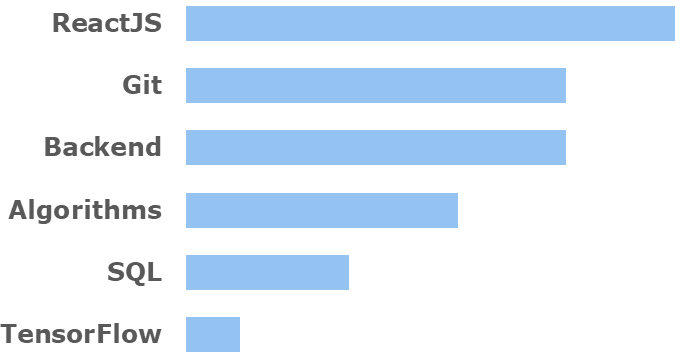
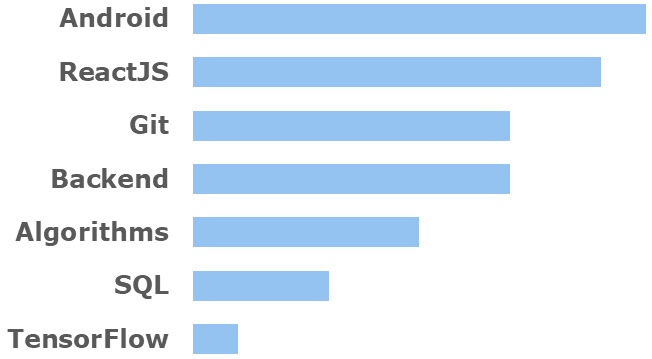
style

Changed region(s): [[0.0, 0.1532, 0.9202, 1.0], [0.0613, 0.0, 1.0, 0.1226]]

diff --git a/src/components/Resume.js b/src/components/Resume.js
@@ -5,8 +5,10 @@ import pepperPic from "./../img/pepper_transparent.png"
 import ericssonLogo from "./../img/ericsson_logo.svg"
 import educationLogo from "./../img/lund_logo.png"
 import bamseLogo from "./../img/bamse_logo.png"
-import moreLogo from "./../img/more_icon.png"
-import booklogLogo from "./../img/booklog.png"
+import c_logo from "./../img/c_logo.png"
+import android_logo from "./../img/android_logo.png"
+import fsek from "./../img/fsek.png"
+
 
 class Resume extends React.Component {
     constructor(props){
@@ -14,53 +16,53 @@ class Resume extends React.Component {
             this.state = {
                 boxSize: 100/3,
                 experiance:{
-                    education: {
-                        image:educationLogo,
-                        title: "Education",
-                        examples: ["Lund University","Kungsholmens gymnasium","Cambridge IGCSE", "Engelska Skolan"],
-                        examplesYear: ["2019 - Present" , "2015 - 2018", "2013 - 2015", " - 2015"],
+					skills: {
+                        image:c_logo,
+                        title: "Skills",
+                        examples: ["Java","Python","JavaScript", "C++", "Matlab", "Kotlin"],
+                        examplesYear: ["Android","ReactJS","Git", "Backend", "Algorithms","SQL", "TensorFlow"],
                         color: "rgb(34, 94, 191)",
                         subColor: "rgba(19, 54, 109, 0.7)"
                     },
+                    education: {
+                        image:educationLogo,
+                        title: "Education",
+                        examples: ["Engineering Physics","Fly a Rocket!","Computer Science", "Lund Startup Fellowship"],
+                        examplesYear: ["Aug 2019 - Present", "Nov 2020 - Present" , "Jan 2020 - Present", "Okt 2019 - Jun 2020"],
+                        color: "rgb(191, 183, 33)",
+                        subColor:"rgba(102, 98, 15, 0.7)"
+                    },
                     progWork: {
                         image:pepperPic,
-                        title: "Work - Programming",
-                        examples: ["Lunicore", "Digital Edge"],
-                        examplesYear: ["Nov 2019 - Present", "Nov 2018 - Jul 2019"],
+                        title: "Engineering Jobs",
+                        examples: ["Machine Learning Intern","Full Stack Developer", "Junior Software Developer", "Software Developer Intern"],
+                        examplesYear: ["Nov 2020 - Present", "Nov 2019 - Present", "Nov 2018 - Jul 2019", "Jan 2019 - May 2019"],
                         color: "rgb(191, 33, 33)",
                         subColor: "rgba(140, 8, 8, 0.7)"
                     },
-                    ericsson: {
-                        image:ericssonLogo,
-                        title: "Internship - Programming",
-                        examples: ["Ericsson"],
-                        examplesYear: ["Jan 2019 - May 2019"],
-                        color: "rgb(191, 33, 146)",
-                        subColor: "rgba(112, 19, 85, 0.7)"
-                    },
-                    mobileApps: {
-                        image:booklogLogo,
-                        title: "Android Apps",
-                        examples: ["Item Tracker", "BookLog","Falling Kitten", "Brännbollräknare"],
-                        examplesYear: ["2019", "2019", "2018", "2018"],
+					PersonalProjects: {
+                        image:android_logo,
+                        title: "Competitions and Projects",
+                        examples: ["Programming Competition", "Carefree Stockholm", "Pitch for Senior Executives", "First Android Projects", "More Android Apps","Science Competition"],
+                        examplesYear: ["Nov 2020","Jul 2020 - Present", "Apr 2019", "Apr 2019", "2018 - Present", "Feb 2018"],
                         color: "rgb(143, 33, 191)",
                         subColor: "rgba(65, 15, 86, 0.7)"
                     },
-                    serviceJobs: {
-                        image:bamseLogo,
-                        title: "Work - Service",
-                        examples: ["Engelska skolan", "Hemköp",  "TUI", "Bedinge GK", "Drottningholms GK", "Abbekås hamnkrog"],
-                        examplesYear: ["Oct - Nov 2018" , "Oct - Nov 2018", "summer 2018", "summer 2017",  "2015 - 2017", "summer 2015 & 2016"],
+					involvement: {
+                        image:fsek,
+                        title: "Volunteer and Involvement",
+                        examples: ["Engineers Without Borders", "Mentor", "Arkad / Farad"],
+                        examplesYear: ["Jul 2020 - Present", "Sep 2020", "Okt 2019 - Feb 2020"],
                         color: "rgb(33, 191, 117)",
                         subColor: "rgba(13, 86, 52, 0.7)"
                     },
-                    other: {
-                        image:moreLogo,
-                        title: "Other",
-                        examples: ["Engineers Without Borders","Kung-Fu","Liberal Youth party", "Alexa development","Brommapojkarna", "Unga forskare" ,"Erasmus +","Driver's license"],
-                        examplesYear: ["2020 - Present","summer 2019", "2018 - 2019", "2019", "2004 - 2019", "2018", "2017", "2017"],
-                        color: "rgb(191, 183, 33)",
-                        subColor: "rgba(102, 98, 15, 0.7)"
+                    serviceJobs: {
+                        image:bamseLogo,
+                        title: "Service Jobs",
+                        examples: ["Substitute teacher", "Sales Assistant ",  "Entertainer", "Waiter", "Golf coach", "Dishwasher"],
+                        examplesYear: ["Oct - Nov 2018" , "Oct - Nov 2018", "Summer 2018", "Summer 2017",  "2015 - 2017", "Summer 2015 & 2016"],
+                        color: "rgb(191, 33, 146)",
+                        subColor: "rgba(112, 19, 85, 0.7)"
                     },
                 }
             }
@@ -93,28 +95,28 @@ class Resume extends React.Component {
         var boxStyle ={
             height: this.state.boxSize+"vw",
             width: this.state.boxSize+"%",
-            fontSize: this.state.boxSize/30+"vw",
+            fontSize: this.state.boxSize/32+"vw",
             lineHeight: this.state.boxSize/30+"vw",
         }
         return (
             <div >
+				<div className="boxContainer" onClick={() => this.props.scrollfromParent("ericsson")} style={boxStyle}>
+                    <BoxResume info={this.state.experiance.skills}/>
+                </div>
                 <div className="boxContainer" onClick={() => this.props.scrollfromParent("education")} style={boxStyle}>
                     <BoxResume info={this.state.experiance.education}/>
                 </div>
                 <div className="boxContainer" onClick={() => this.props.scrollfromParent("progWork")} style={boxStyle}>
                     <BoxResume info={this.state.experiance.progWork}/>
                 </div>
-                <div className="boxContainer" onClick={() => this.props.scrollfromParent("ericsson")} style={boxStyle}>
-                    <BoxResume info={this.state.experiance.ericsson}/>
-                </div>
-                <div className="boxContainer" onClick={() => this.props.scrollfromParent("apps")}style={boxStyle}>
-                    <BoxResume info={this.state.experiance.mobileApps}/>
-                </div>
+				<div className="boxContainer" onClick={() => this.props.scrollfromParent("apps")}style={boxStyle}>
+					<BoxResume info={this.state.experiance.PersonalProjects}/>
+				</div>
+				<div className="boxContainer" onClick={() => this.props.scrollfromParent("apps")}style={boxStyle}>
+					<BoxResume info={this.state.experiance.involvement}/>
+				</div>
                 <div className="boxContainer" onClick={() => this.props.scrollfromParent("service")} style={boxStyle}>
                     <BoxResume info={this.state.experiance.serviceJobs}/>
-                </div>
-                <div className="boxContainer" onClick={() => this.props.scrollfromParent("other")} style={boxStyle}>
-                    <BoxResume info={this.state.experiance.other}/>
                 </div>
             </div>
         );

diff --git a/src/components/ServiceSection.js b/src/components/ServiceSection.js
@@ -25,6 +25,7 @@ class ServiceSection extends React.Component {
             this.state = {
                 tui:{
                     year:"summer 2018",
+					title:"Entertainer",
                     description:"I spent the summer of 2018 in Greece working at a TUI hotel as an Entertainer. Me and my colleagues performed on stage and hosted family games. I had the time of my life and made some great friends!",
                     image: {
                       front: tui_logo,
@@ -33,6 +34,7 @@ class ServiceSection extends React.Component {
                 },
                 iesb:{
                     year:"Oct - Nov 2018",
+					title:"Substitute teacher",
                     description:"3 years after graduating from IESB I came back but this time in the role of a substitute teacher. My respect for teachers grew as I realised how challenging it is to inspire at the same time as to act with authority.",
                     image: {
                       front: iesb_logo,
@@ -41,6 +43,7 @@ class ServiceSection extends React.Component {
                 },
                 hemkop:{
                     year:"Oct - Nov 2018",
+					title:"Sales Assistant",
                     description:"At Hemköp I realised that the shelfs in a supermarket apparently don't get filled by themselves, but by hard work and time optimization.",
                     image: {
                       front: hemkop_logo,
@@ -49,6 +52,7 @@ class ServiceSection extends React.Component {
                 },
                 drottningholm:{
                     year:"2015 - 2017",
+					title:"Golf coach",
                     description:"Leadership, planning and organization were essential skills in my work as a golf instructor, although pronouncing all the names during attendance was by far the hardest part.",
                     image: {
                       front: drottningholm_logo,
@@ -57,6 +61,7 @@ class ServiceSection extends React.Component {
                 },
                 bedinge:{
                     year:"summer 2017",
+					title:"Waiter",
                     description:"Working in a smaller restaurant sets completely different requirements, and you can no longer specialize in one thing. I had become an amazing dishwasher at Abbekås, but now I had to learn new skills.",
                     image: {
                       front: bedinge_logo,
@@ -65,6 +70,7 @@ class ServiceSection extends React.Component {
                 },
                 abbekas:{
                     year:"summer 2015 & 2015",
+					title:"Dishwasher",
                     description:"My first ever job was a harsh but fun welcoming to working life. Washing dishes at a restaurant is an extremely stressful task. When the piles stack up, there is no time to waste.",
                     image: {
                       front: abbekas_logo,
@@ -125,31 +131,25 @@ class ServiceSection extends React.Component {
             <div className="serviceBody">
                 <h1>Work - Service</h1>
                 <h3>Skills must be combined with hard work to achieve results. My former employers have been impressed by my work ethic and flexible mindset, I will do whatever the situation requires.</h3>
-                <div className="quote">
-                    <a href={abbekas_work_certificate} title="Download work certificate" download="Lukas Petersson - Abbekås work certificate">"I can really recommend this young man, even if I would rather not, as I hope to have him many years to come" -Lotta Holm, Abbekås hamnkrog</a>
-                </div>
-                <div className="quote">
-                    <a href={drottningholm_work_certificate} title="Download work certificate" download="Lukas Petersson - Drottningholm work certificate">"I give him the highest possible grade" -Fredrik Lundgren, Drottningholms GK</a>
-                </div>
                 <img alt="" className="arrowsService" id="firstArrowService" src={arrow_back} onClick={() => this.scrollSide(-1)} style = {this.state.arrowStyle.left}/>
                     <div className="serviceContainer" ref={this.blocksContainerRef} >
                     <div className="service">
-                        <SmallBlock info={this.state.iesb} height={"400px"}/>
+                        <SmallBlock info={this.state.iesb} height={"430px"}/>
                     </div>
                     <div className="service">
-                        <SmallBlock info={this.state.hemkop} height={"400px"}/>
+                        <SmallBlock info={this.state.hemkop} height={"430px"}/>
                     </div>
                     <div className="service">
-                        <SmallBlock info={this.state.tui} height={"400px"}/>
+                        <SmallBlock info={this.state.tui} height={"430px"}/>
                     </div>
                     <div className="service">
-                        <SmallBlock info={this.state.bedinge} height={"400px"}/>
+                        <SmallBlock info={this.state.bedinge} height={"430px"}/>
                     </div>
                     <div className="service">
-                        <SmallBlock info={this.state.drottningholm} height={"400px"}/>
+                        <SmallBlock info={this.state.drottningholm} height={"430px"}/>
                     </div>
                     <div className="service">
-                        <SmallBlock info={this.state.abbekas} height={"400px"}/>
+                        <SmallBlock info={this.state.abbekas} height={"430px"}/>
                     </div>
                 </div>
                 <img alt="" className="arrowsService" id="secondArrowService" src={arrow_forward} onClick={() => this.scrollSide(1)} style = {this.state.arrowStyle.right}/>

diff --git a/src/components/SmallBlock.js b/src/components/SmallBlock.js
@@ -27,22 +27,43 @@ class SmallBlock extends React.Component {
 				</div>
 			);
         }else{
-            return (
-                <div className="flip-card" style={{height:this.props.height}}>
-                  <div className="flip-card-inner">
-                    <div className="flip-card-front">
-                      <div className="SmallBlock" style={{height:this.props.height, boxShadow: "0 4px 8px 0 rgba(0,0,0,0.3)"}}>
-                          <img alt="" src={this.props.info.image.front}/>
-                           <p>{this.props.info.year}</p>
-                          <p>{this.props.info.description}</p>
-                      </div>
-                    </div>
-                    <div className="flip-card-back">
-                      <img alt="" src={this.props.info.image.back} style={{height:this.props.height}}/>
-                    </div>
-                  </div>
-                </div>
-            );
+			if(this.props.info.title){
+				return (
+	                <div className="flip-card" style={{height:this.props.height}}>
+	                  <div className="flip-card-inner">
+	                    <div className="flip-card-front">
+	                      <div className="SmallBlock" style={{height:this.props.height, boxShadow: "0 4px 8px 0 rgba(0,0,0,0.3)"}}>
+	                          <img alt="" src={this.props.info.image.front}/>
+							   <p>{this.props.info.title}</p>
+	                           <p>{this.props.info.year}</p>
+	                          <p>{this.props.info.description}</p>
+	                      </div>
+	                    </div>
+	                    <div className="flip-card-back">
+	                      <img alt="" src={this.props.info.image.back} style={{height:this.props.height}}/>
+	                    </div>
+	                  </div>
+	                </div>
+	            );
+			}else{
+				return (
+	                <div className="flip-card" style={{height:this.props.height}}>
+	                  <div className="flip-card-inner">
+	                    <div className="flip-card-front">
+	                      <div className="SmallBlock" style={{height:this.props.height, boxShadow: "0 4px 8px 0 rgba(0,0,0,0.3)"}}>
+	                          <img alt="" src={this.props.info.image.front}/>
+	                           <p>{this.props.info.year}</p>
+	                          <p>{this.props.info.description}</p>
+	                      </div>
+	                    </div>
+	                    <div className="flip-card-back">
+	                      <img alt="" src={this.props.info.image.back} style={{height:this.props.height}}/>
+	                    </div>
+	                  </div>
+	                </div>
+	            );
+			}
+
         }
     }
 }

diff --git a/src/components/WelcomeSection.js b/src/components/WelcomeSection.js
@@ -48,7 +48,7 @@ class WelcomeSection extends React.Component {
             </div>
             <div className="infoContainerWelcome" ref={this.refMeText}>
               <h1>Hello!</h1>
-              <h3>I’m Lukas, a self-taught software developer currently studying M.Sc. Engineering Physics at Lund University. Driven by curiosity, I constantly seek new things to learn like philosophy, politics, or programming. I've one year of experience as a full-time developer, but many more as a hobbyist. I have mostly worked with Android and Web using Java, React, and Vue, but I have also had experience with Python, C++, Tensorflow, AWS and Kotlin. I am eager to explore new lands within programming in the future.</h3>
+              <h3>I’m Lukas, a self-taught software developer with an entrepreneurial mindset currently studying M.Sc. Engineering Physics at Lund University. Driven by curiosity, I constantly seek new challenges and are committed to lifelong learning. My primary interests are within the STEM fields, but I also enjoy philosophy and politics. I am eager to explore new lands within programming in the future.</h3>
             </div>
             </div>
         );

diff --git a/src/components/NewEducation.js b/src/components/NewEducation.js
@@ -33,7 +33,7 @@ class NewEducation extends React.Component {
 	render() {
 		var boxStyle ={
 			width: this.state.boxSize+"%",
-			lineHeight: this.state.boxSize/30+"vw",
+			lineHeight: this.state.boxSize/25+"vw",
 		}
 		return (
 			<div className="newEducationBody">
@@ -56,7 +56,7 @@ class NewEducation extends React.Component {
 						<h2>Extracurricular</h2>
 						<div className="bigCard">
 							<h3>Fly a Rocket!</h3>
-							<p>Selected as one out of 20 students from Europe to participate in ESA hands-on rocket science course. Participants take an online course to learn the theory and is finishing the course by building an launching the rocket from Andøya Space Center. </p>
+							<p>Selected as one out of 24 students from Europe to participate in an ESA hands-on rocket science course. Participants take an online course to learn the theory and is finishing the course by building an launching the rocket from Andøya Space Center. </p>
 						</div>
 						<div className="bigCard">
 							<h3>Computer Science</h3>

diff --git a/src/components/BoxResume.js b/src/components/BoxResume.js
@@ -43,10 +43,10 @@ class BoxResume extends React.Component {
         if(this.props.info.examples){
             var examples =[]
             var years = [];
+
             for(var i = 0; i < this.props.info.examples.length; i++){
                 examples.push(<p  key={"e"+i} >{this.props.info.examples[i]}</p>)
                 years.push(<p key={"y"+i}>{this.props.info.examplesYear[i]}</p>)
-
             }
         }
 

diff --git a/src/components/ServiceSection.css b/src/components/ServiceSection.css
@@ -49,20 +49,3 @@
     margin-bottom: 0;
     color: #344346;
 }
-
-.quote{
-    position: relative;
-    display: inline-block;
-    max-width: 300px;
-    margin:20px 10px;
-    margin-bottom: 0;
-    vertical-align: middle;
-    color: #344346;
-}
-
-.quote a{
-  margin: 0;
-  color: #344346;
-  text-decoration: none;
-  font-size:calc(0.5vw + 1.7vh);
-}

diff --git a/src/components/WelcomeSection.css b/src/components/WelcomeSection.css
@@ -11,6 +11,9 @@
     background-position: center;
     text-align: center;
 }
+
+
+
 .coverOver{
     position: absolute;
     top:0;

diff --git a/src/components/ContactSection.css b/src/components/ContactSection.css
@@ -8,7 +8,8 @@
 }
 
 .contactBody h1{
-
+	color:#94C3F1;
+	text-decoration: none;
 }
 
 .contactBody img{

diff --git a/src/components/BoxResume.css b/src/components/BoxResume.css
@@ -24,6 +24,7 @@
 .boxSubTitle{
     margin-top: -85%;
     font-size: 1.1em;
+
 }
 
 .boxSubTitle p{
